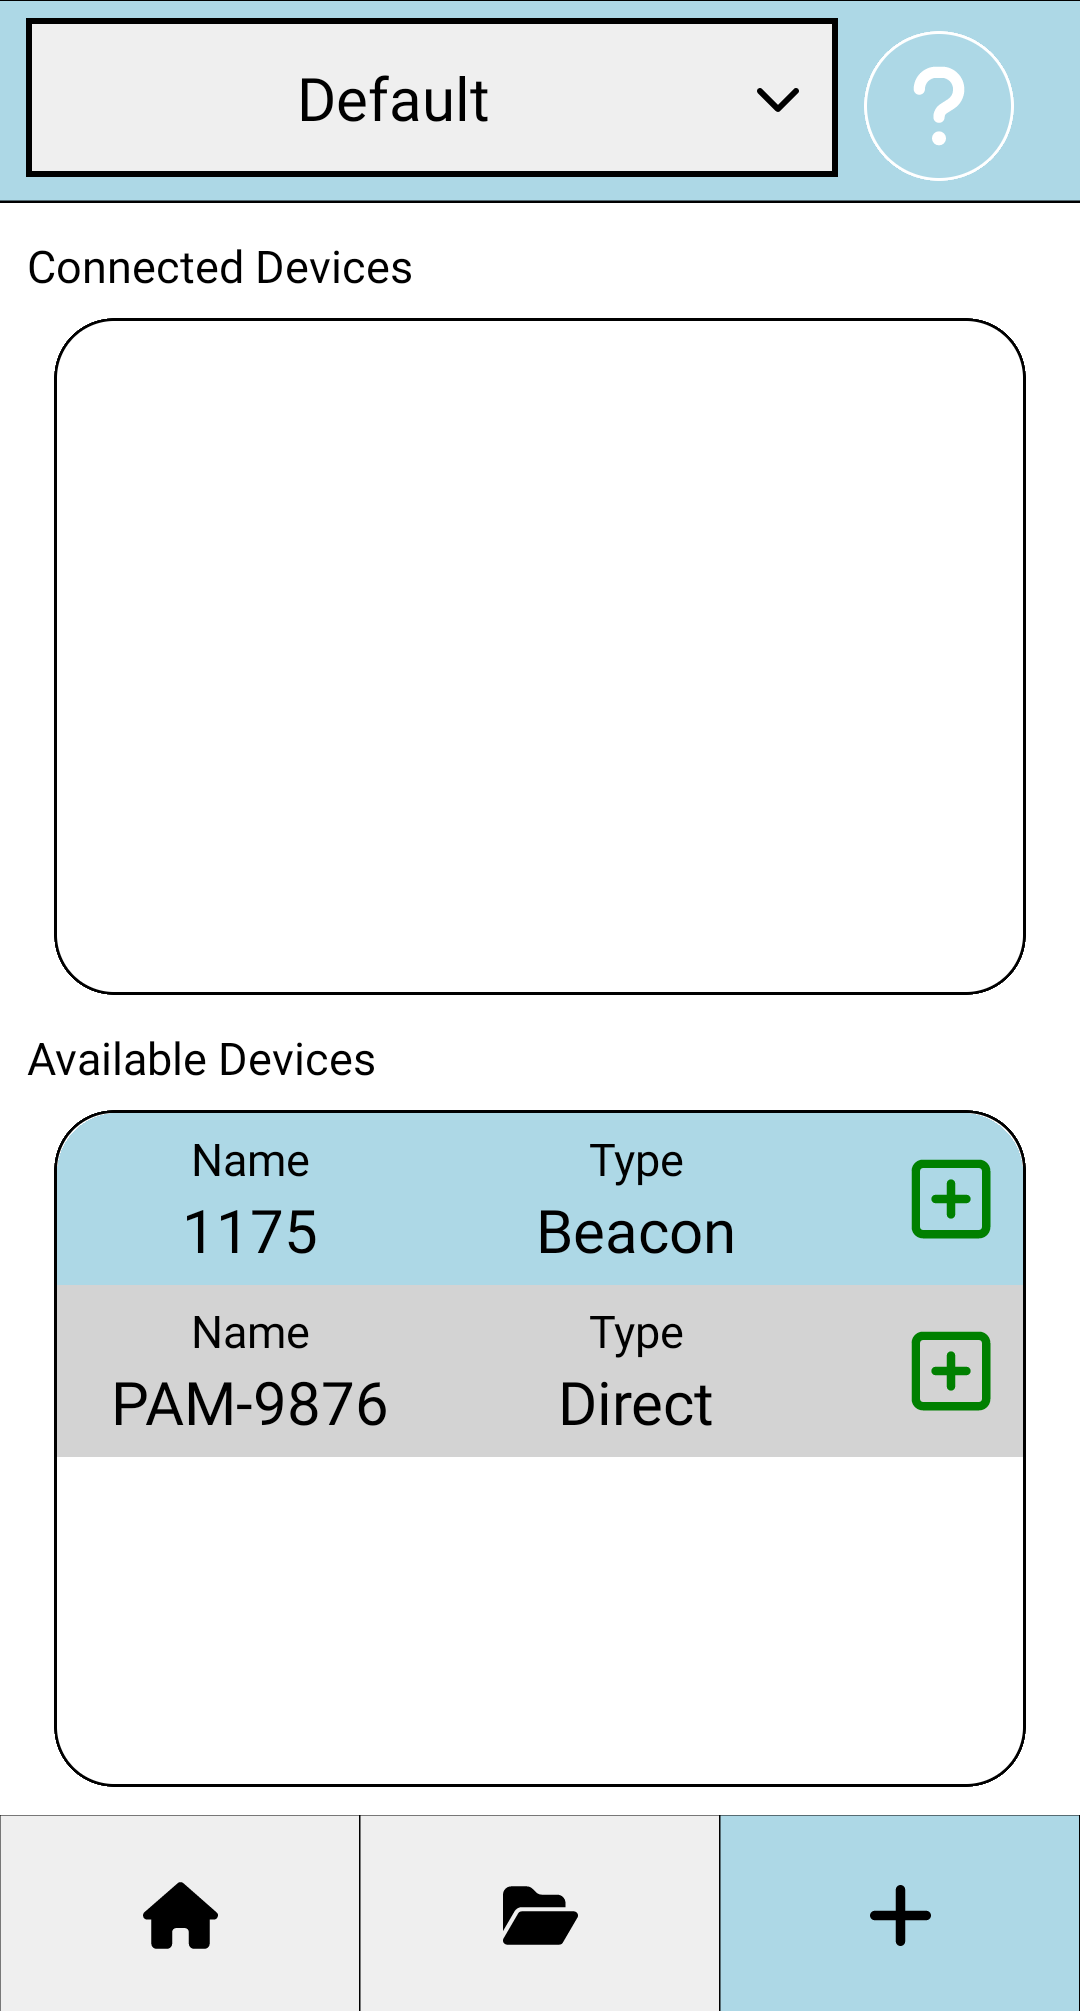
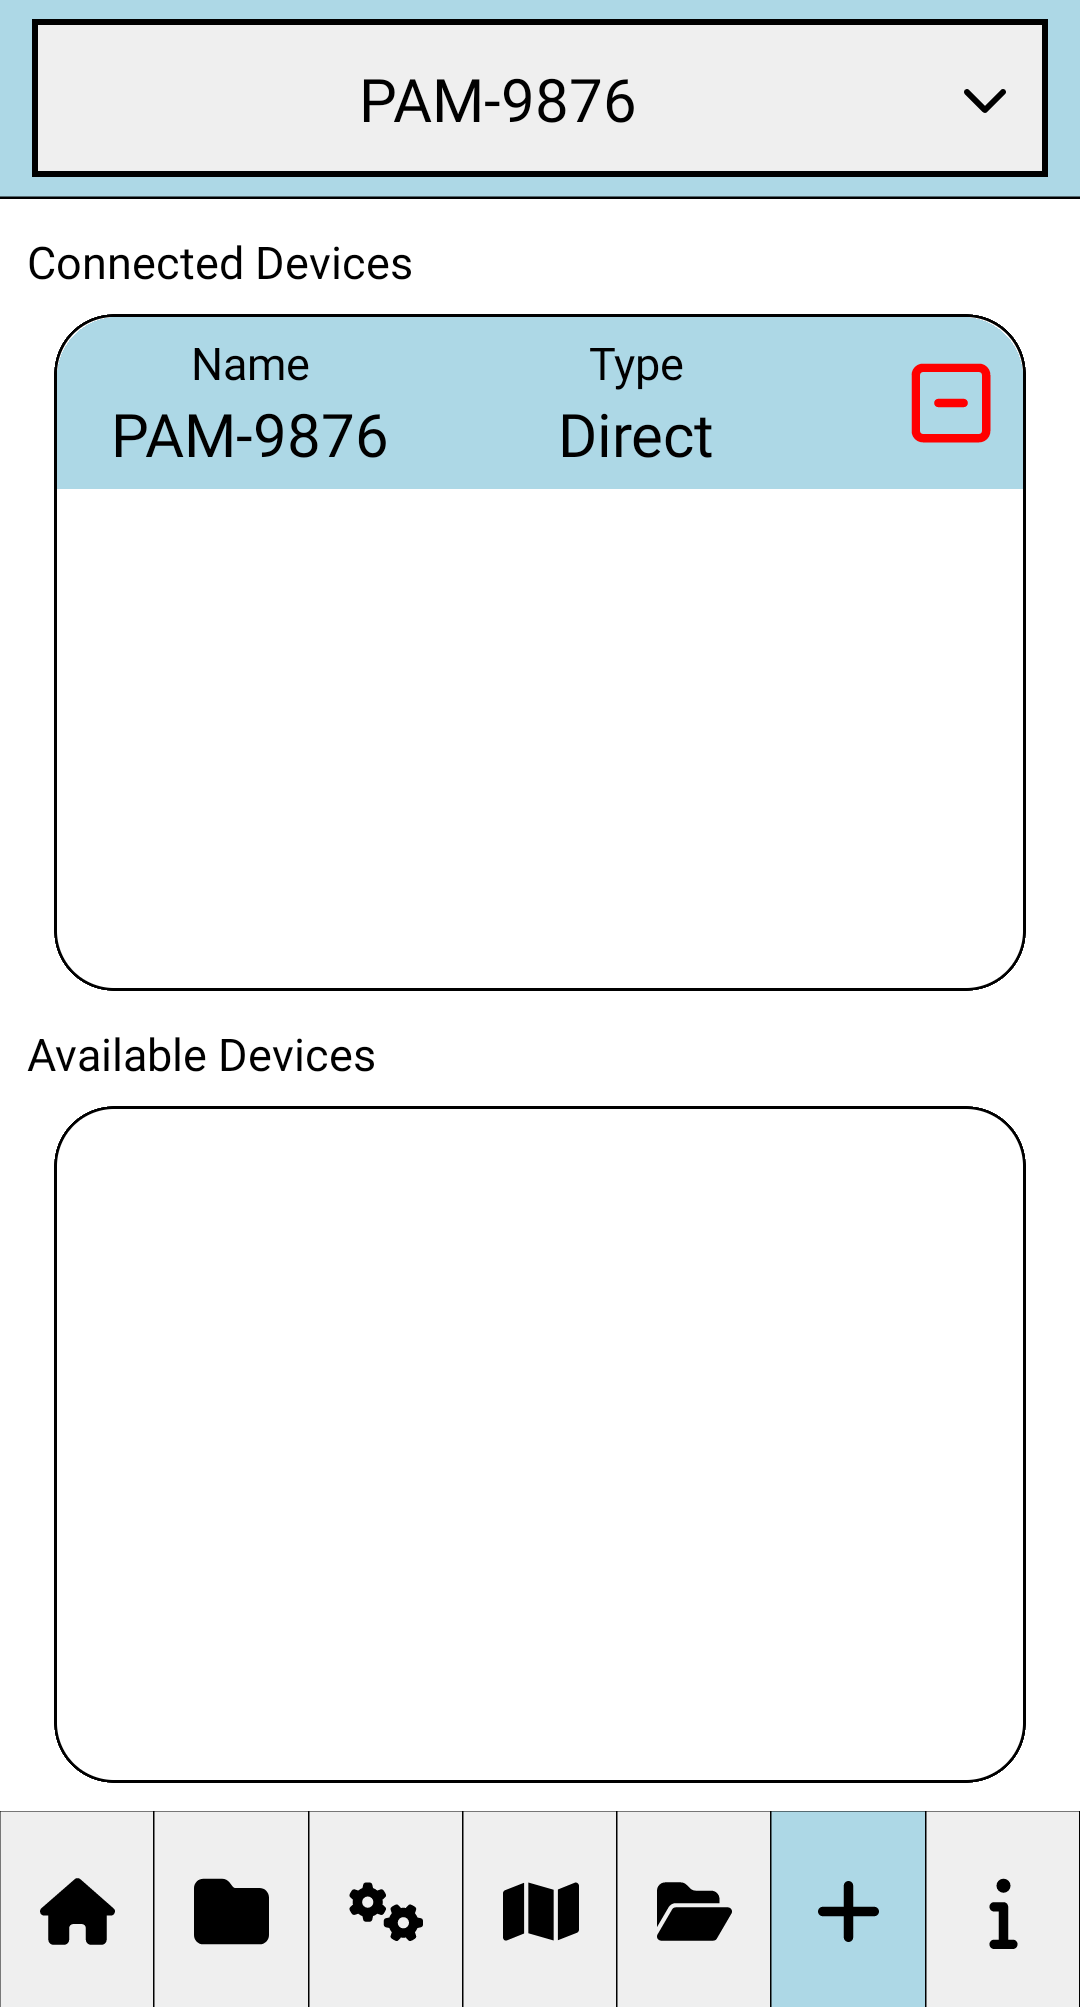
Updated the screen shots used in the tutorial

diff --git a/src/Pages/InfoComponent/InfoPages/Page7_TreksPage.tsx b/src/Pages/InfoComponent/InfoPages/Page7_TreksPage.tsx
@@ -30,7 +30,7 @@ const TreksDescriptionPage: FC<TreksDescriptionPageProps> = React.memo(({}) => {
                 <View style={{height: seperatorHeight / 2}} />
 
                 <View style={{flex: 1, width: '100%', alignItems: 'center',}}>
-                    <Image width={picWidth} source={require('../../../../screenShots/SettingsPage/SettingsPage.png')} />
+                    <Image width={picWidth} source={require('../../../../screenShots/TreksPage/TreksPage.png')} />
                 </View>
 
                 <View style={{height: seperatorHeight}} />
